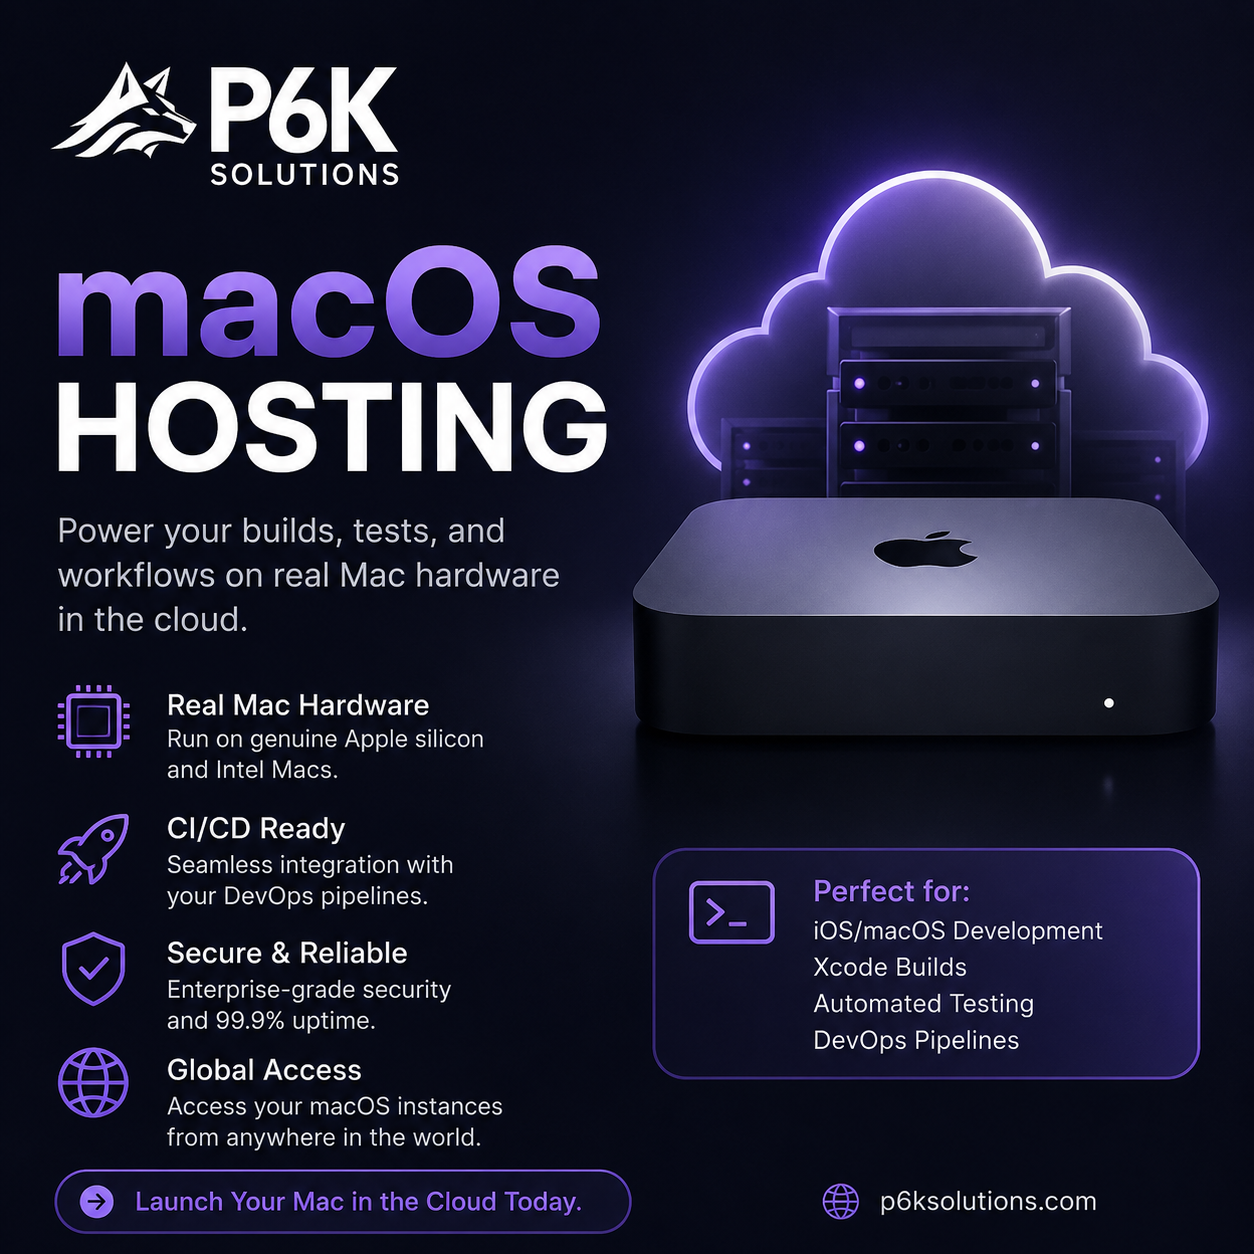
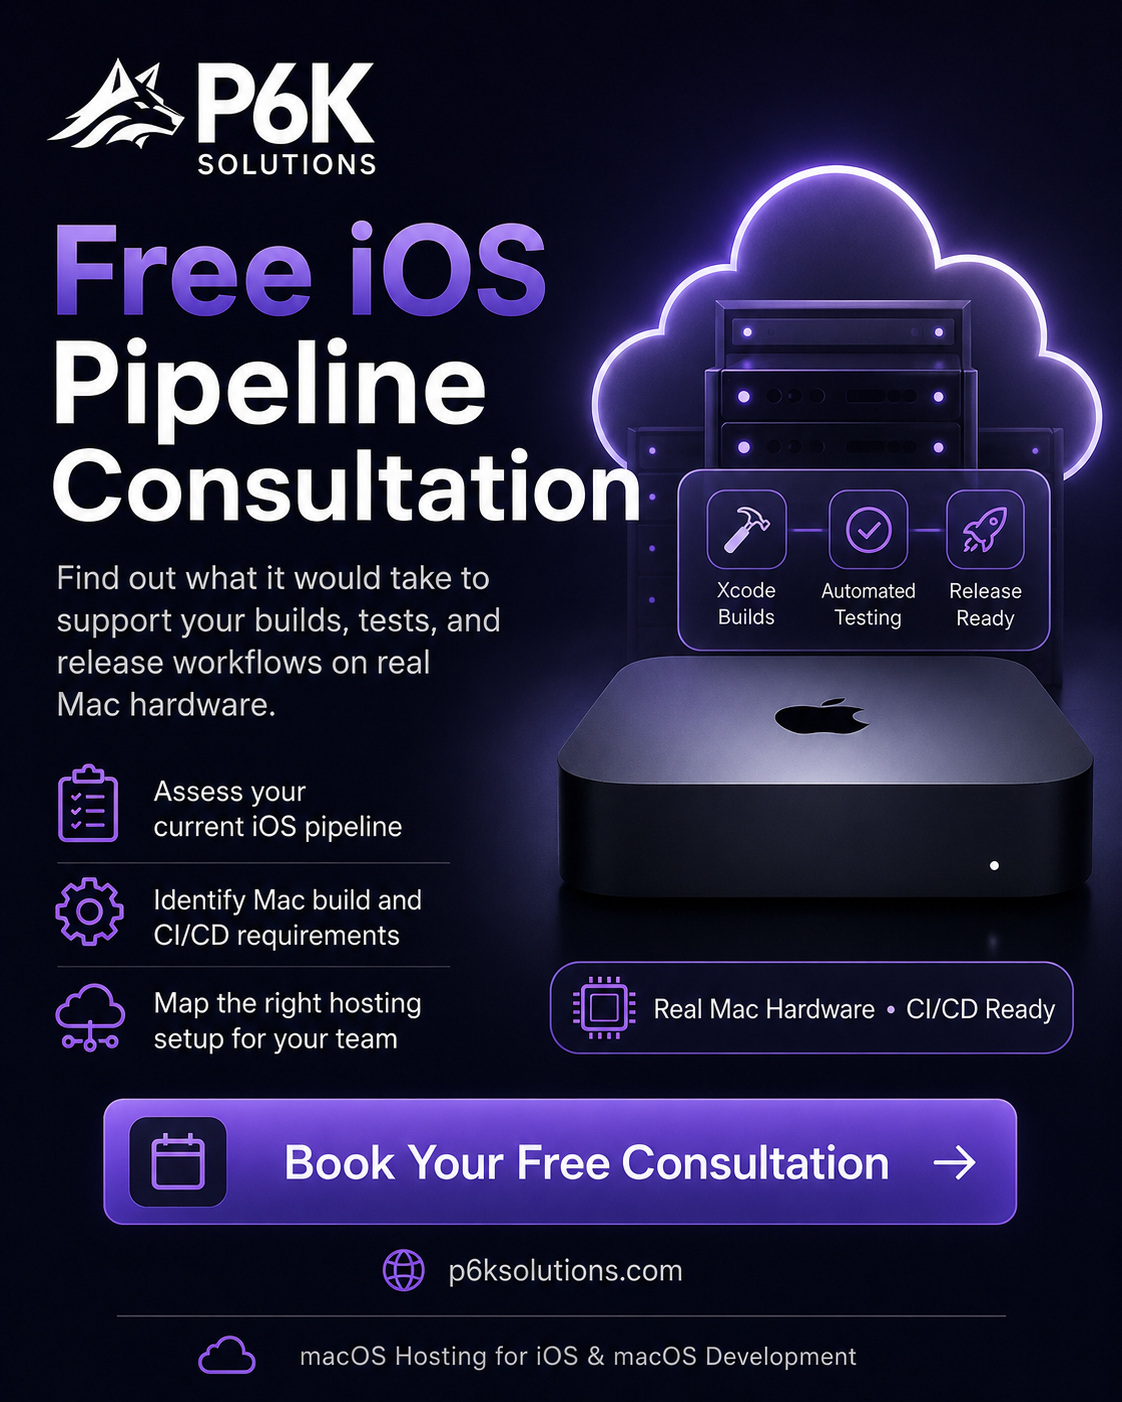
Mirroring ad

diff --git a/macos-hosting.html b/macos-hosting.html
@@ -20,7 +20,7 @@
   <title>macOS Hosting | P6K Solutions</title>
   <meta name="author" content="P6K Solutions">
   <meta name="viewport" content="width=device-width, initial-scale=1, maximum-scale=1">
-  <meta name="description" content="P6K Solutions macOS hosting for iOS, macOS, Xcode, CI/CD, and automated testing workflows on real Mac hardware in the cloud.">
+  <meta name="description" content="Book a free iOS pipeline consultation with P6K Solutions to assess your builds, tests, and release workflows on real Mac hardware.">
   <!-- font -->
   <link rel="stylesheet" href="fonts/fonts.css">
   <link rel="stylesheet" href="fonts/font-icons.css">
@@ -110,26 +110,26 @@
       <div class="container">
         <div class="row align-items-center g-5">
           <div class="col-lg-6">
-            <p class="p6k-eyebrow">macOS hosting</p>
-            <h1>Real Mac hardware for cloud-based builds, tests, and workflows.</h1>
-            <p class="p6k-hero-copy">Power iOS and macOS development on genuine Apple silicon and Intel Macs without maintaining physical machines in your office.</p>
+            <p class="p6k-eyebrow">Free iOS pipeline consultation</p>
+            <h1>Find out what it takes to support your Apple release workflow.</h1>
+            <p class="p6k-hero-copy">We help assess your current iOS pipeline, identify Mac build and CI/CD requirements, and map the right hosting setup on real Mac hardware.</p>
             <div class="p6k-hero-actions">
-              <a href="index.html#contact" class="p6k-btn p6k-btn-primary">Let's Talk</a>
-              <a href="#hosting-details" class="p6k-btn p6k-btn-secondary">See Capabilities</a>
+              <a href="index.html#contact" class="p6k-btn p6k-btn-primary">Book Your Free Consultation</a>
+              <a href="#hosting-details" class="p6k-btn p6k-btn-secondary">See What We Review</a>
             </div>
           </div>
           <div class="col-lg-6">
             <div class="p6k-macos-ad-card">
-              <img src="./macos_hosting.png" alt="P6K Solutions macOS hosting service overview" class="lazyload">
+              <img src="./macos_hosting.png" alt="P6K Solutions free iOS pipeline consultation for Mac hosting" class="lazyload">
             </div>
           </div>
         </div>
         <div class="p6k-cred-strip" aria-label="macOS hosting capabilities">
+          <span>Xcode Builds</span>
+          <span>Automated Testing</span>
+          <span>Release Ready</span>
           <span>Real Mac Hardware</span>
           <span>CI/CD Ready</span>
-          <span>99.9% Uptime</span>
-          <span>Global Access</span>
-          <span>Xcode Builds</span>
         </div>
       </div>
     </section>
@@ -139,14 +139,14 @@
     <section id="hosting-details" class="p6k-section p6k-macos-details">
       <div class="container">
         <div class="p6k-section-heading p6k-section-heading-wide">
-          <p class="p6k-eyebrow">Built for Apple development teams</p>
-          <h2>Run macOS workloads in the cloud without losing access to real hardware.</h2>
-          <p class="p6k-lead">P6K macOS hosting gives your team reliable access to Mac infrastructure for development, build automation, testing, and DevOps pipelines.</p>
+          <p class="p6k-eyebrow">What we review</p>
+          <h2>Get a practical plan for your iOS build, test, and release pipeline.</h2>
+          <p class="p6k-lead">The consultation helps clarify where your current workflow is constrained and what Mac hosting setup would support faster, more reliable releases.</p>
         </div>
         <div class="p6k-card-grid">
-          <article class="p6k-service-card"><i class="icon icon-stack"></i><h4>Real Mac Hardware</h4><p>Run on genuine Apple silicon and Intel Macs so your builds and tests execute on the platform your software targets.</p></article>
-          <article class="p6k-service-card"><i class="icon icon-loop"></i><h4>CI/CD Ready</h4><p>Integrate macOS capacity into your existing DevOps pipelines for repeatable builds, tests, and release workflows.</p></article>
-          <article class="p6k-service-card"><i class="icon icon-protection"></i><h4>Secure &amp; Reliable</h4><p>Operate with enterprise-grade security expectations and hosting designed around 99.9% uptime.</p></article>
+          <article class="p6k-service-card"><i class="icon icon-stack"></i><h4>Assess Your Current iOS Pipeline</h4><p>Review your build, test, signing, and release process to identify the operational friction slowing your team down.</p></article>
+          <article class="p6k-service-card"><i class="icon icon-loop"></i><h4>Identify Mac Build Requirements</h4><p>Clarify the Xcode, CI/CD, automated testing, and real hardware needs required to support your delivery workflow.</p></article>
+          <article class="p6k-service-card"><i class="icon icon-protection"></i><h4>Map the Right Hosting Setup</h4><p>Translate your pipeline needs into a practical macOS hosting approach sized for your team, tools, and release cadence.</p></article>
         </div>
       </div>
     </section>
@@ -157,16 +157,16 @@
       <div class="container">
         <div class="row g-5 align-items-center">
           <div class="col-lg-5">
-            <p class="p6k-eyebrow">Perfect for</p>
-            <h2>Apple build capacity your team can reach from anywhere.</h2>
-            <p class="p6k-lead">Give distributed teams global access to macOS instances while keeping build infrastructure consistent, available, and connected to delivery workflows.</p>
+            <p class="p6k-eyebrow">Built around release readiness</p>
+            <h2>Support your builds, tests, and release workflows on real Mac hardware.</h2>
+            <p class="p6k-lead">Use the consultation to understand how hosted Mac capacity can fit into your existing development process without adding unnecessary operational overhead.</p>
           </div>
           <div class="col-lg-7">
             <div class="p6k-macos-use-grid">
-              <div><span>01</span><h4>iOS/macOS Development</h4><p>Cloud-accessible Mac environments for app teams that need dependable development infrastructure.</p></div>
-              <div><span>02</span><h4>Xcode Builds</h4><p>Dedicated macOS resources for compiling, signing, and validating Apple platform releases.</p></div>
-              <div><span>03</span><h4>Automated Testing</h4><p>Run test workflows on real Mac hardware to catch platform-specific issues earlier.</p></div>
-              <div><span>04</span><h4>DevOps Pipelines</h4><p>Connect Mac capacity to the same automation patterns your team uses across the rest of your stack.</p></div>
+              <div><span>01</span><h4>Xcode Builds</h4><p>Plan reliable Mac capacity for compiling, signing, and validating iOS and macOS releases.</p></div>
+              <div><span>02</span><h4>Automated Testing</h4><p>Run repeatable test workflows against real Mac hardware before release issues reach customers.</p></div>
+              <div><span>03</span><h4>Release Ready Workflows</h4><p>Connect build, test, signing, and release steps into a dependable delivery process.</p></div>
+              <div><span>04</span><h4>CI/CD Requirements</h4><p>Identify how Mac hosting should integrate with the pipeline tools your team already uses.</p></div>
             </div>
           </div>
         </div>
@@ -179,11 +179,11 @@
       <div class="container">
         <div class="p6k-macos-cta-card">
           <div>
-            <p class="p6k-eyebrow">Launch your Mac in the cloud</p>
-            <h2>Ready to add reliable macOS capacity to your delivery system?</h2>
-            <p>Send us a note and we will help map the right hosting setup for your development, testing, and CI/CD needs.</p>
+            <p class="p6k-eyebrow">Book your free consultation</p>
+            <h2>Ready to map the right Mac hosting setup for your team?</h2>
+            <p>Send us a note and we will help assess your current iOS pipeline, identify Mac build requirements, and outline a practical path forward.</p>
           </div>
-          <a href="index.html#contact" class="p6k-btn p6k-btn-primary">Let's Talk</a>
+          <a href="index.html#contact" class="p6k-btn p6k-btn-primary">Book Your Free Consultation</a>
         </div>
       </div>
     </section>
